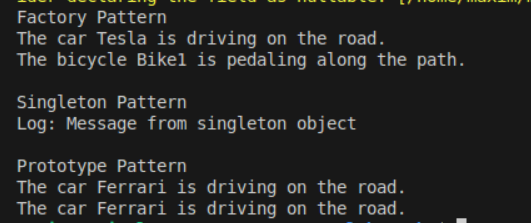
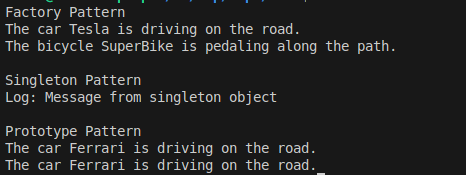
modified lab1

diff --git a/Lab1/Program.cs b/Lab1/Program.cs
@@ -1,12 +1,17 @@
 using System;
 
-interface IVehicle
+// Prototype Pattern
+interface IVehiclePrototype
 {
-    void Move();
     IVehicle Clone();
 }
 
-class Car : IVehicle
+interface IVehicle
+{
+    void Move();
+}
+
+class Car : IVehicle, IVehiclePrototype
 {
     public string Name { get; set; }
 
@@ -28,7 +33,7 @@ class Car : IVehicle
     }
 }
 
-class Bicycle : IVehicle
+class Bicycle : IVehicle, IVehiclePrototype
 {
     public string Name { get; set; }
 
@@ -53,17 +58,18 @@ class Bicycle : IVehicle
 // Factory Pattern
 class VehicleFactory
 {
+    private readonly Dictionary<string, Func<string, IVehicle>> _registry = new();
+
+    public void RegisterVehicle(string type, Func<string, IVehicle> creator)
+    {
+        _registry[type.ToLower()] = creator;
+    }
+
     public IVehicle CreateVehicle(string type, string name = "")
     {
-        switch (type.ToLower())
-        {
-            case "car":
-                return new Car(name);
-            case "bicycle":
-                return new Bicycle(name);
-            default:
-                throw new ArgumentException("Invalid vehicle type");
-        }
+        if (_registry.TryGetValue(type.ToLower(), out var creator))
+            return creator(name);
+        throw new ArgumentException($"Invalid vehicle type: {type}");
     }
 }
 
@@ -89,33 +95,17 @@ class VehicleLogger
     }
 }
 
-class VehiclePrototype
-{
-    public static IVehicle Clone(IVehicle vehicle, string name = null)
-    {
-        if (vehicle is Car car)
-        {
-            return new Car(name ?? car.Name);
-        }
-        else if (vehicle is Bicycle bicycle)
-        {
-            return new Bicycle(name ?? bicycle.Name);
-        }
-        else
-        {
-            throw new ArgumentException("Unknown vehicle type for cloning.");
-        }
-    }
-}
-
 class Program
 {
     static void Main()
     {
         Console.WriteLine("Factory Pattern");
         VehicleFactory factory = new VehicleFactory();
+        factory.RegisterVehicle("car", name => new Car(name));
+        factory.RegisterVehicle("bicycle", name => new Bicycle(name));
+
         IVehicle factoryCar = factory.CreateVehicle("car", "Tesla");
-        IVehicle factoryBike = factory.CreateVehicle("bicycle", "Bike1");
+        IVehicle factoryBike = factory.CreateVehicle("bicycle", "SuperBike");
         factoryCar.Move();
         factoryBike.Move();
 
@@ -125,7 +115,7 @@ class Program
 
         Console.WriteLine("\nPrototype Pattern");
         Car originalCar = new Car("Ferrari");
-        Car anotherCar = (Car)VehiclePrototype.Clone(originalCar);
+        IVehicle anotherCar = originalCar.Clone();
         
         originalCar.Move();
         anotherCar.Move();

diff --git a/Lab1/README.md b/Lab1/README.md
@@ -9,31 +9,40 @@
 - Implement at least 3 Creational Design Patterns for the specific domain;
 
 ## Used Design Patterns:
-- Factory Pattern - For creating vehicles without specifying exact classes
-- Singleton Pattern - For ensuring only one instance of logger exists
-- Prototype Pattern - For creating new vehicles by cloning existing prototypes
+- **Factory Pattern** - For creating vehicles using a registry-based approach that follows Open/Closed Principle
+- **Singleton Pattern** - For ensuring only one instance of logger exists
+- **Prototype Pattern** - For creating new vehicles by cloning existing prototypes
 
 ## Implementation
 
 ### Factory Pattern
-Creates vehicles based on type without exposing instantiation logic.
+Creates vehicles using a flexible registry system that allows easy extension without modifying existing code.
 
 ```csharp
 class VehicleFactory
 {
-    public IVehicle CreateVehicle(string type)
+    private readonly Dictionary<string, Func<string, IVehicle>> _registry = new();
+
+    public void RegisterVehicle(string type, Func<string, IVehicle> creator)
     {
-        switch (type.ToLower())
-        {
-            case "car":
-                return new Car();
-            case "bicycle":
-                return new Bicycle();
-            default:
-                throw new ArgumentException("Invalid vehicle type");
-        }
+        _registry[type.ToLower()] = creator;
+    }
+
+    public IVehicle CreateVehicle(string type, string name = "")
+    {
+        if (_registry.TryGetValue(type.ToLower(), out var creator))
+            return creator(name);
+        throw new ArgumentException($"Invalid vehicle type: {type}");
     }
 }
+
+// Usage
+VehicleFactory factory = new VehicleFactory();
+factory.RegisterVehicle("car", name => new Car(name));
+factory.RegisterVehicle("bicycle", name => new Bicycle(name));
+
+IVehicle car = factory.CreateVehicle("car", "Tesla");
+IVehicle bicycle = factory.CreateVehicle("bicycle", "SuperBike");
 ```
 
 ### Singleton Pattern
@@ -43,6 +52,8 @@ Ensures only one instance of VehicleLogger exists throughout the application.
 class VehicleLogger
 {
     private static VehicleLogger _instance;
+    
+    private VehicleLogger() { }
     
     public static VehicleLogger Instance
     {
@@ -58,19 +69,22 @@ class VehicleLogger
         Console.WriteLine($"Log: {message}");
     }
 }
+
+// Usage
+VehicleLogger logger = VehicleLogger.Instance;
+logger.Log("Message from singleton object");
 ```
 
 ### Prototype Pattern
-Creates new objects by cloning existing prototypes, avoiding expensive creation logic.
+Creates new objects by cloning existing prototypes, avoiding expensive creation logic. Each vehicle implements its own cloning logic.
 
 ```csharp
-interface IVehicle
+interface IVehiclePrototype
 {
-    void Move();
     IVehicle Clone();
 }
 
-class Car : IVehicle
+class Car : IVehicle, IVehiclePrototype
 {
     public string Name { get; set; }
 
@@ -83,37 +97,42 @@ class Car : IVehicle
 
     public void Move()
     {
-        Console.WriteLine("The car is driving on the road.");
+        Console.WriteLine($"The car {Name} is driving on the road.");
     }
     
     public IVehicle Clone()
     {
-        return new Car(this.Name); // Create new instance as clone
+        return new Car(this.Name);
     }
 }
 
-class VehiclePrototype
+class Bicycle : IVehicle, IVehiclePrototype
 {
-    public static IVehicle Clone(IVehicle vehicle, string name = null)
+    public string Name { get; set; }
+
+    public Bicycle() { }
+
+    public Bicycle(string name)
     {
-        if (vehicle is Car car)
-        {
-            return new Car(name ?? car.Name);
-        }
-        else if (vehicle is Bicycle bicycle)
-        {
-            return new Bicycle(name ?? bicycle.Name);
-        }
-        else
-        {
-            throw new ArgumentException("Unknown vehicle type for cloning.");
-        }
+        Name = name;
+    }
+
+    public void Move()
+    {
+        Console.WriteLine($"The bicycle {Name} is pedaling along the path.");
+    }
+    
+    public IVehicle Clone()
+    {
+        return new Bicycle(this.Name);
     }
 }
 
 // Usage
 Car originalCar = new Car("Ferrari");
-Car anotherCar = (Car)VehiclePrototype.Clone(originalCar);
+IVehicle anotherCar = originalCar.Clone();
+originalCar.Move();
+anotherCar.Move();
 ```
 
 ## Results
